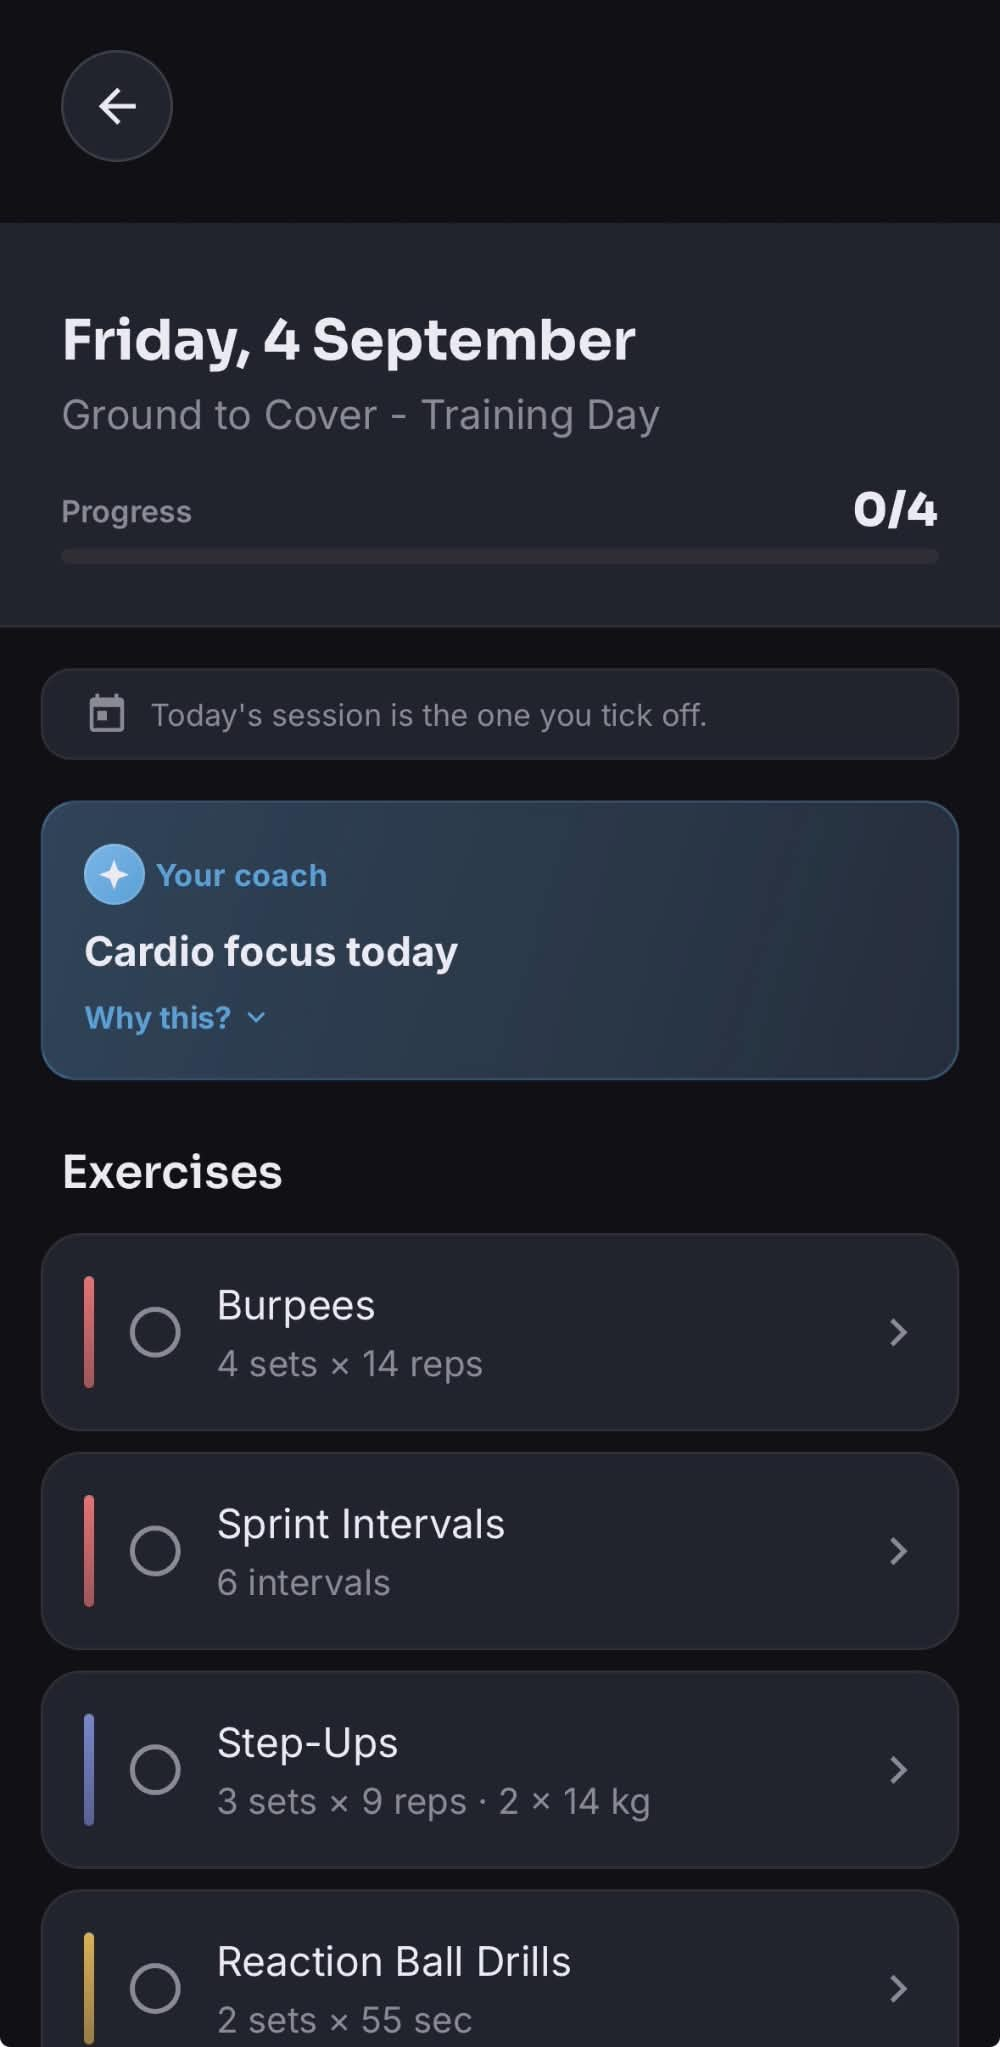
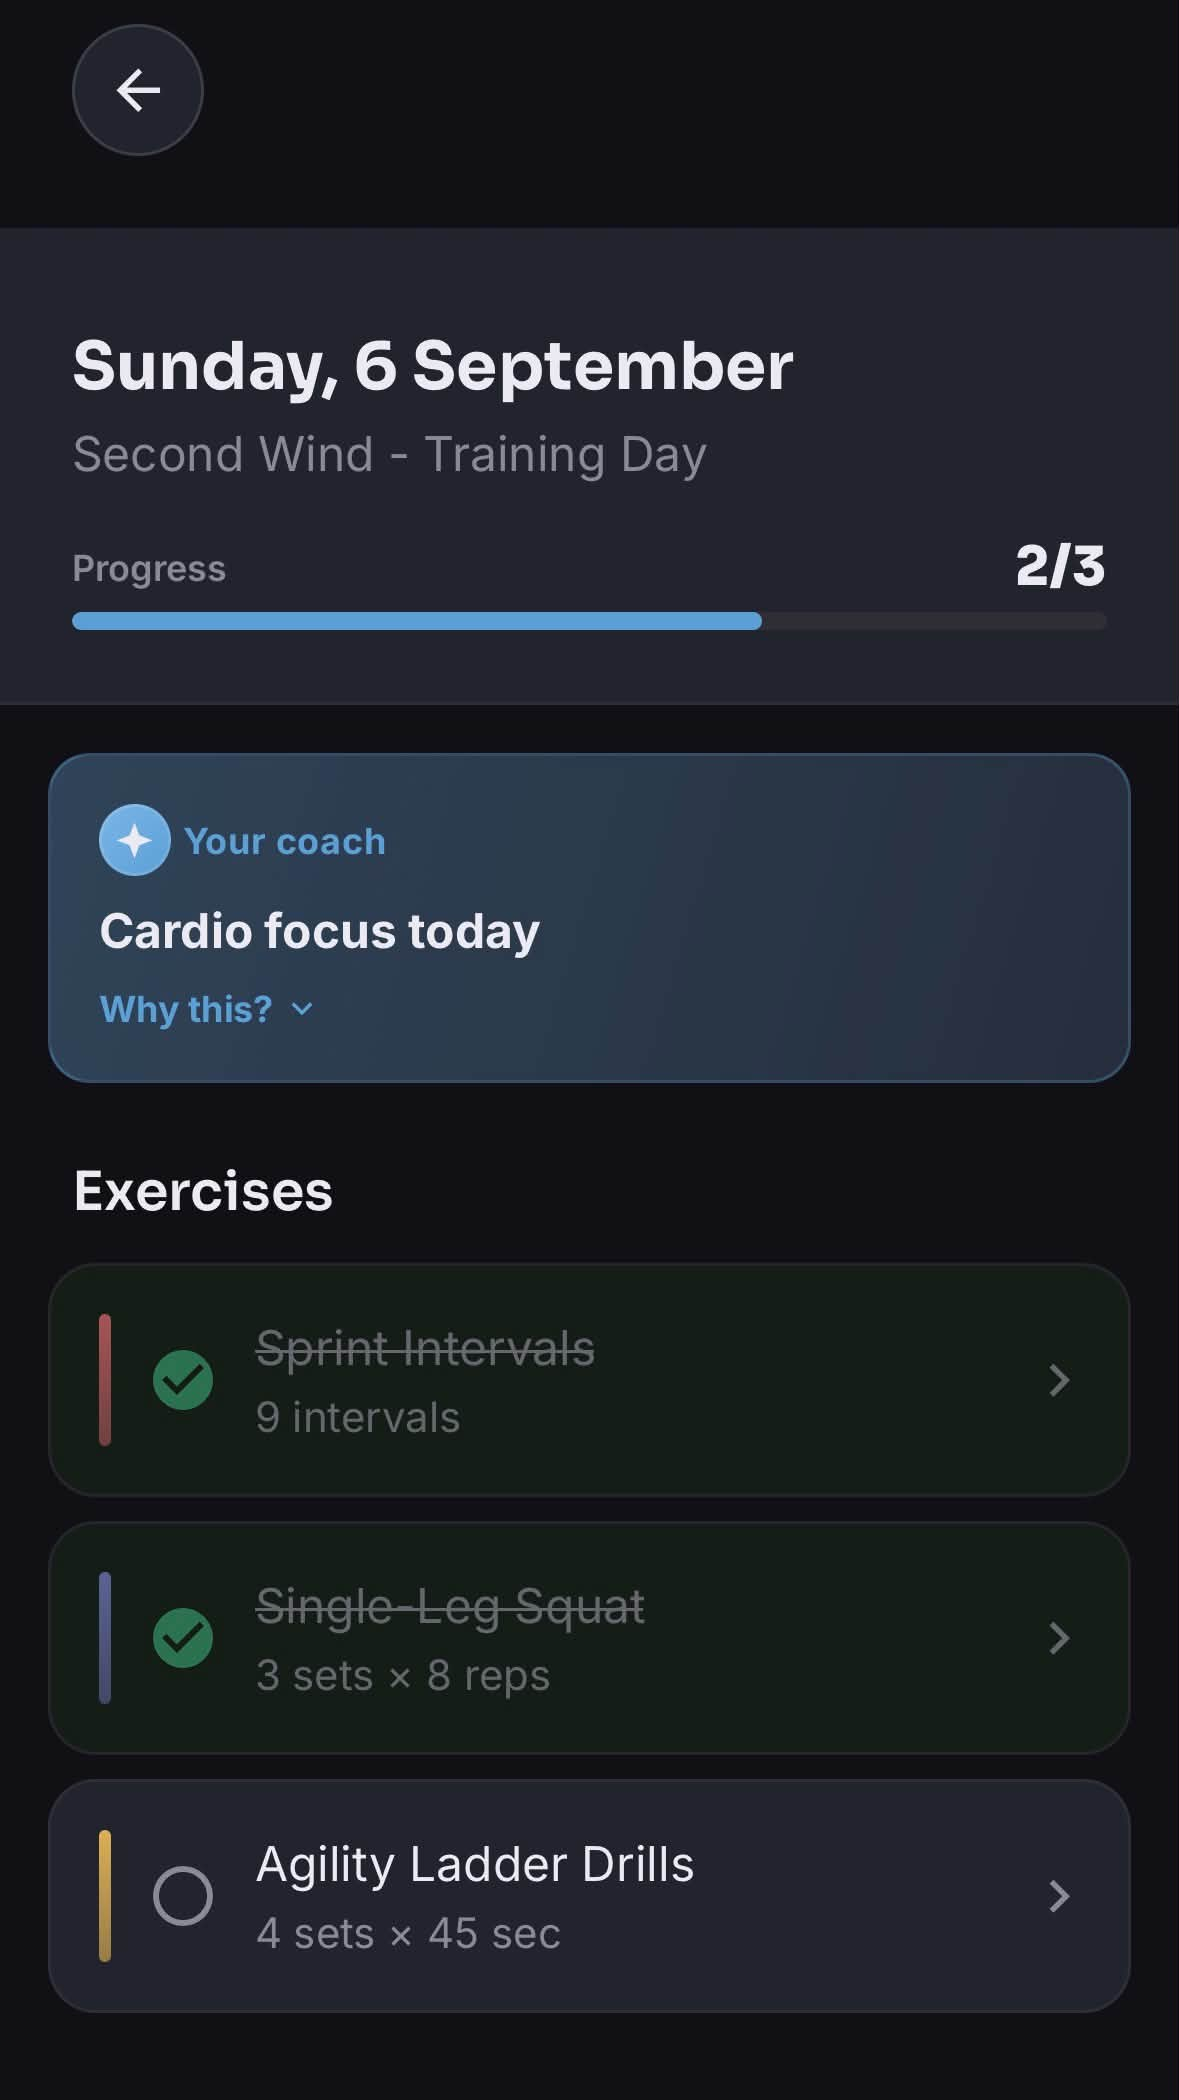
home/04 with an exercise ticked, and the Share button off the season card
home/04 replaces the untouched version of the same day rather than joining it -
two captures of one session differing by a single tick is not a second variant.
It now reads Progress 1/3 with Reaction Ball Drills ticked, and the crop stops
above Daily Stretching so the slide ends on the exercise list.

Marking it done went through the exercise detail, not the circle on the row -
the circle is not a toggle. It then raised a "How was the duration?" calibration
prompt, answered Just Right as the neutral option.

progress/04 loses the Share button. Re-cropped from the raw with --bottom rather
than trimming the existing JPEG, so it stays a single generation.

Both cuts land in flat page background: rows 2040-2124 above Daily Stretching,
2134-2194 above the Share button. Noted --bottom in the screens README with the
same rule the top cut follows.

diff --git a/assets/screens/README.md b/assets/screens/README.md
@@ -111,8 +111,13 @@ python prep-screen.py raw.png out.jpg --top 185              # cut deeper
 ```
 
 It takes the status bar off the top and the scroll indicator off the sides, and
-leaves the bottom alone because the template runs the screenshot off the foot
-of the slide anyway. `--probe` prints where the first row of real content is,
+leaves the bottom alone by default, because the template runs the screenshot off
+the foot of the slide anyway.
+
+`--bottom N` is for when something at the foot of the screen has to go rather
+than be bled off - a Share button, or a section that belongs to a different part
+of the app. Find a flat row of page background to cut on the same way you would
+at the top: a cut through a card or a heading reads as a rendering bug. `--probe` prints where the first row of real content is,
 which is what you need when the capture was taken mid-scroll and a slice of the
 previous screen is still up there.
 
